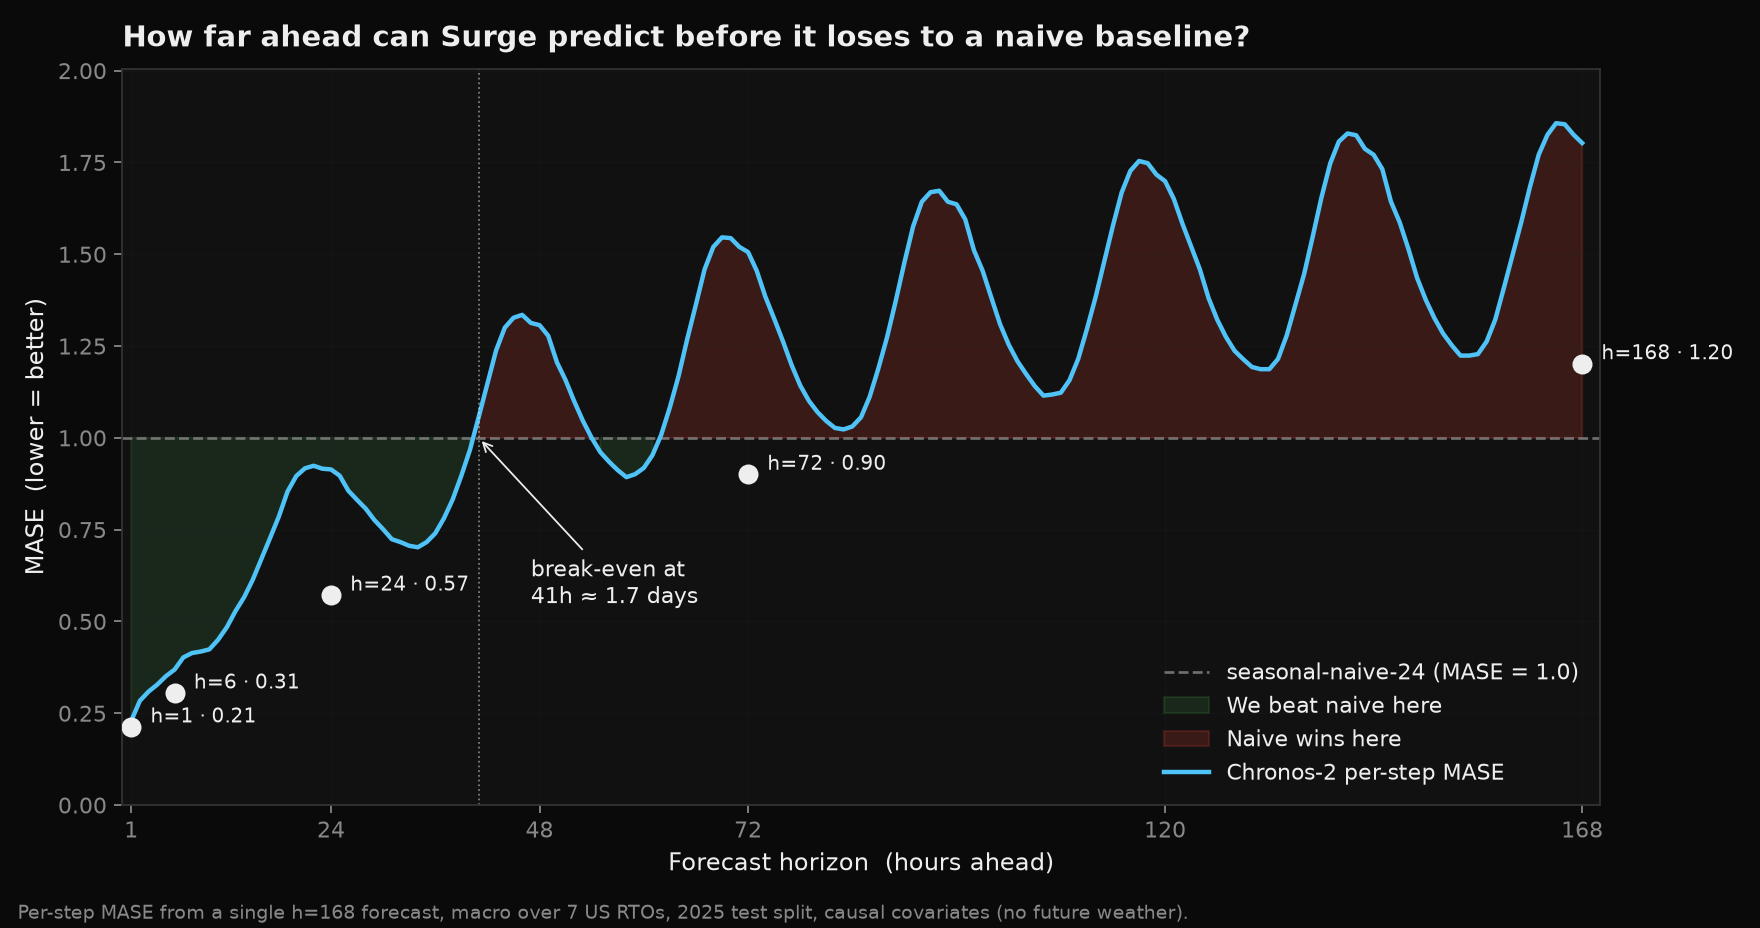
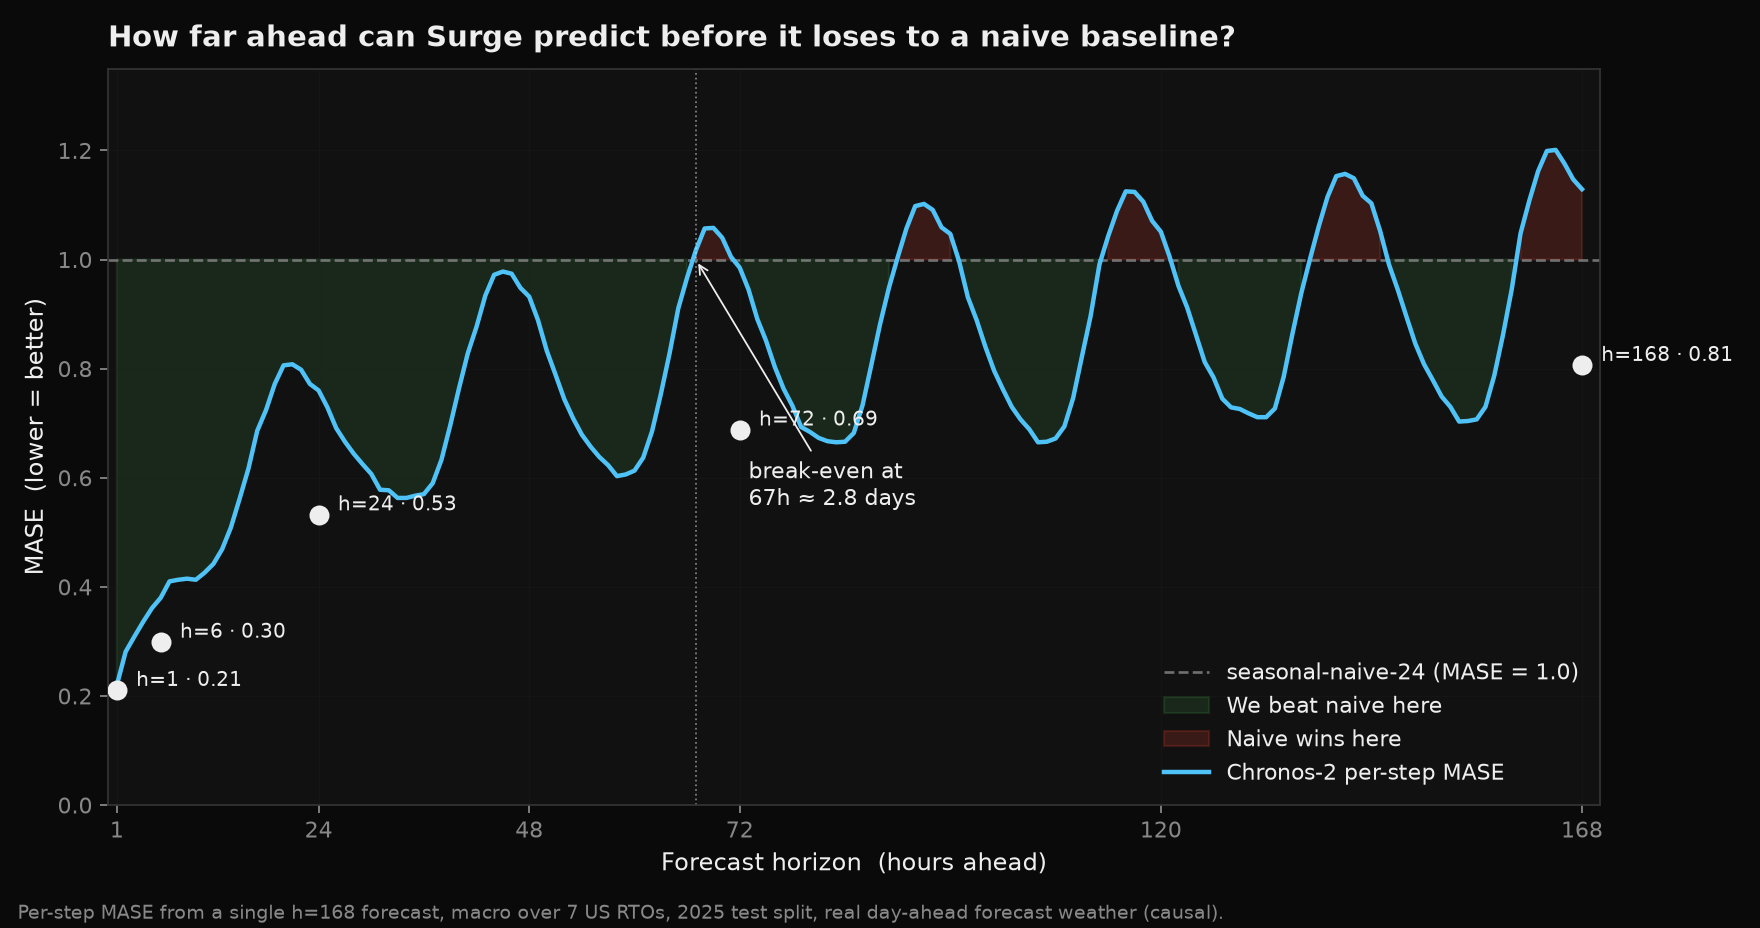
docs(plots): regenerate under real forecast weather
Leaderboard gains the forecast-wx rows and a valid perfect-foresight bar
(0.488, measured on the same Open-Meteo channel). Horizon curve carries the
new 168 per-step values; crossover 41h -> 67h. Hero plot now runs
future_mode=forecast so it matches its caption. Leaderboard footer corrected:
two rows legitimately use future weather now.

diff --git a/docs/make_readme_plots.py b/docs/make_readme_plots.py
@@ -61,10 +61,11 @@ plt.rcParams.update({
 # ------------------------------------------------------------------
 def hero_forecast() -> Path:
     BAS = ["PJM", "CISO", "ERCO", "MISO", "NYIS", "ISNE", "SWPP"]
-    # future_mode="none" is the honest serving configuration: no future weather,
-    # which is what the README caption claims. Do not switch this to "oracle" —
-    # the chart would then show a forecast nobody can actually make.
-    bas = load_multi_ba(BAS, with_gen=False, future_mode="none")
+    # future_mode="forecast" is the honest serving configuration: a real archived
+    # day-ahead weather forecast, which is what the README caption claims. Never
+    # switch this to "oracle"/"oracle_om" — the chart would then show a forecast
+    # nobody can actually make.
+    bas = load_multi_ba(BAS, with_gen=False, future_mode="forecast")
 
     pipe = BaseChronosPipeline.from_pretrained(
         str(MODEL_PATH),
@@ -162,7 +163,7 @@ def hero_forecast() -> Path:
         + f"\n\n  Overall  {np.mean(mapes):5.2f}%\n\n"
         "Dashed line = median forecast.\n"
         "Shaded band = 80% probability interval.\n"
-        "Causal covariates only — no\nfuture weather or renewables.\n"
+        "Causal covariates only.\nDay-ahead forecast weather;\nno realized values.\n"
         "Model: Chronos-2 fine-tuned on\n53 BAs × 7 years of public data."
     )
     ax.text(0.03, 0.97, text, color=FG, fontsize=10.5, va="top",
@@ -190,13 +191,13 @@ def leaderboard() -> Path:
     # rather than carried over from the superseded run — plotting them beside
     # these bars would recreate the apples-to-oranges comparison being fixed.
     data = [
-        ("seasonal-naive-24  (baseline)",        1.0442, None,   None,   "#888"),
-        ("XGBoost hourly-binned (Roy '25)",      1.0189, None,   None,   "#ff9800"),
-        ("Chronos-2 zero-shot",                  0.6203, 0.5986, 0.6439, "#2196F3"),
-        ("surge-fm-v3",                          0.5937, 0.5742, 0.6137, "#4CAF50"),
-        ("surge-fm-v3  + peer-BA load",          0.5804, 0.5630, 0.5977, "#4CAF50"),
-        ("surge-fm-v3  + peers, re-adapted",     0.5720, 0.5555, 0.5877, "#4FC3F7"),
-        ("(perfect foresight — NOT a forecast)", 0.4683, 0.4542, 0.4822, "#7E57C2"),
+        ("seasonal-naive-24  (baseline)",          1.0442, None,   None,   "#888"),
+        ("XGBoost hourly-binned (Roy '25)",        1.0189, None,   None,   "#ff9800"),
+        ("Chronos-2 zero-shot,  no future wx",     0.6203, 0.5986, 0.6439, "#2196F3"),
+        ("surge-fm-v3,  no future wx",             0.5937, 0.5742, 0.6137, "#4CAF50"),
+        ("Chronos-2 zero-shot  + forecast wx",     0.5636, 0.5471, 0.5800, "#2196F3"),
+        ("surge-fm-v3  + forecast wx",             0.5357, 0.5212, 0.5502, "#4FC3F7"),
+        ("(perfect wx foresight - NOT a forecast)", 0.4882, 0.4761, 0.5000, "#7E57C2"),
     ]
     labels = [r[0] for r in data]
     mase = [r[1] for r in data]
@@ -226,8 +227,8 @@ def leaderboard() -> Path:
         s.set_color("#333")
     fig.text(0.01, 0.01,
              "7 US RTOs, macro MASE, 365 rolling 24h-ahead windows over calendar 2025.\n"
-             "Denominator = per-BA train seasonal-naive (m=24). No future weather or\n"
-             "renewables except the labelled perfect-foresight bar.",
+             "Denominator = per-BA train seasonal-naive (m=24). \"forecast wx\" = real archived\n"
+             "day-ahead NWP forecast (causal). Realized values used only in the labelled bar.",
              color=MUTED, fontsize=8.5, linespacing=1.5)
     fig.tight_layout(rect=[0, 0.10, 1, 1])
     path = OUT / "leaderboard.png"
@@ -240,34 +241,36 @@ def leaderboard() -> Path:
 # 3. HORIZON CURVE — MASE vs forecast horizon, with naive break-even
 # ------------------------------------------------------------------
 def horizon_curve() -> Path:
-    # Causal-covariate measurement (future_mode=none), 7 RTOs, 2025 test split.
+    # Causal measurement WITH real day-ahead forecast weather (future_mode=
+    # forecast), 7 RTOs, 2025 test split. Crossover moves to h67 from h41
+    # without weather - weather is what buys forecast horizon.
     matched = {
-        1: 0.2129,
-        6: 0.3054,
-        24: 0.572,
-        72: 0.9009,
-        168: 1.2021,
+        1: 0.2102,
+        6: 0.2986,
+        24: 0.5321,
+        72: 0.6876,
+        168: 0.806,
     }
     # Per-step MASE from the h=168 run, in order of step_ahead. Crosses the
     # seasonal-naive line (1.0) at h41 — far earlier than the leaky run suggested.
     per_step = np.array([
-        0.229, 0.284, 0.309, 0.328, 0.351, 0.369, 0.402, 0.414, 0.418, 0.424,
-        0.450, 0.484, 0.528, 0.566, 0.614, 0.671, 0.728, 0.786, 0.854, 0.896,
-        0.917, 0.924, 0.916, 0.914, 0.897, 0.856, 0.831, 0.807, 0.776, 0.751,
-        0.724, 0.716, 0.706, 0.702, 0.716, 0.740, 0.781, 0.832, 0.897, 0.968,
-        1.057, 1.148, 1.238, 1.300, 1.327, 1.335, 1.313, 1.307, 1.278, 1.206,
-        1.157, 1.099, 1.046, 1.000, 0.961, 0.935, 0.912, 0.893, 0.901, 0.918,
-        0.953, 1.008, 1.083, 1.168, 1.269, 1.363, 1.459, 1.520, 1.546, 1.544,
-        1.520, 1.506, 1.455, 1.384, 1.325, 1.264, 1.199, 1.143, 1.101, 1.070,
-        1.046, 1.027, 1.023, 1.031, 1.056, 1.112, 1.189, 1.274, 1.373, 1.478,
-        1.576, 1.643, 1.669, 1.673, 1.643, 1.636, 1.595, 1.511, 1.455, 1.382,
-        1.310, 1.254, 1.209, 1.174, 1.141, 1.115, 1.118, 1.123, 1.157, 1.215,
-        1.296, 1.383, 1.481, 1.578, 1.668, 1.727, 1.754, 1.748, 1.717, 1.699,
-        1.651, 1.583, 1.521, 1.459, 1.381, 1.322, 1.275, 1.237, 1.214, 1.193,
-        1.187, 1.187, 1.215, 1.279, 1.362, 1.446, 1.549, 1.655, 1.747, 1.807,
-        1.829, 1.824, 1.787, 1.771, 1.732, 1.643, 1.587, 1.515, 1.436, 1.376,
-        1.326, 1.284, 1.252, 1.224, 1.224, 1.228, 1.262, 1.322, 1.409, 1.498,
-        1.588, 1.684, 1.771, 1.825, 1.857, 1.854, 1.826, 1.803,
+        0.220, 0.281, 0.309, 0.336, 0.361, 0.380, 0.410, 0.413, 0.415, 0.413,
+        0.426, 0.442, 0.469, 0.509, 0.562, 0.617, 0.686, 0.724, 0.772, 0.806,
+        0.808, 0.798, 0.772, 0.760, 0.729, 0.691, 0.666, 0.644, 0.625, 0.607,
+        0.578, 0.577, 0.563, 0.563, 0.567, 0.570, 0.590, 0.633, 0.696, 0.764,
+        0.828, 0.877, 0.934, 0.972, 0.978, 0.974, 0.948, 0.932, 0.889, 0.833,
+        0.789, 0.744, 0.709, 0.679, 0.657, 0.638, 0.623, 0.603, 0.606, 0.613,
+        0.637, 0.685, 0.753, 0.828, 0.911, 0.967, 1.017, 1.057, 1.058, 1.040,
+        1.005, 0.985, 0.945, 0.891, 0.851, 0.803, 0.763, 0.732, 0.693, 0.684,
+        0.673, 0.667, 0.665, 0.666, 0.682, 0.733, 0.807, 0.882, 0.948, 1.004,
+        1.057, 1.098, 1.102, 1.091, 1.059, 1.047, 0.997, 0.931, 0.889, 0.840,
+        0.796, 0.762, 0.730, 0.707, 0.689, 0.665, 0.666, 0.672, 0.694, 0.746,
+        0.822, 0.897, 0.991, 1.043, 1.089, 1.125, 1.124, 1.106, 1.071, 1.051,
+        1.005, 0.952, 0.912, 0.862, 0.812, 0.784, 0.745, 0.729, 0.726, 0.718,
+        0.711, 0.711, 0.727, 0.785, 0.864, 0.938, 1.001, 1.061, 1.115, 1.153,
+        1.157, 1.149, 1.117, 1.103, 1.052, 0.991, 0.945, 0.895, 0.846, 0.808,
+        0.779, 0.749, 0.730, 0.703, 0.704, 0.707, 0.730, 0.787, 0.862, 0.946,
+        1.048, 1.108, 1.162, 1.199, 1.201, 1.176, 1.147, 1.129,
     ])
     xs = np.arange(1, len(per_step) + 1)
 
@@ -309,7 +312,7 @@ def horizon_curve() -> Path:
     ax.legend(loc="lower right", frameon=False, labelcolor=FG, fontsize=10)
     fig.text(0.01, 0.01,
              "Per-step MASE from a single h=168 forecast, macro over 7 US RTOs, "
-             "2025 test split, causal covariates (no future weather).",
+             "2025 test split, real day-ahead forecast weather (causal).",
              color=MUTED, fontsize=8.5)
     fig.tight_layout(rect=[0, 0.03, 1, 1])
     path = OUT / "horizon_curve.png"

diff --git a/README.md b/README.md
@@ -336,10 +336,11 @@ was fine-tuned to trust the covariate. Crude causal substitutes
 (same-hour-yesterday, month × hour climatology) also lost to withholding
 temperature. Only a genuine forecast helps.
 
-Closing the 0.572 → 0.468 perfect-foresight gap therefore needs a *genuine*
-weather forecast — real HRRR/GFS archives (`surge.scrapers.hrrr` exists but
-is not wired into ingest) used at both training and inference time, so the
-model learns how much to trust an imperfect forecast.
+The remaining headroom is also weather: perfect foresight of the same channel
+would give another ~9% on the RTOs (0.536 → 0.488). Getting it means a better
+*forecast* — a sharper NWP model, ensemble means, or additional variables such
+as forecast irradiance and 100 m wind for the renewables signal — rather than a
+better load model.
 
 ## Status
 
